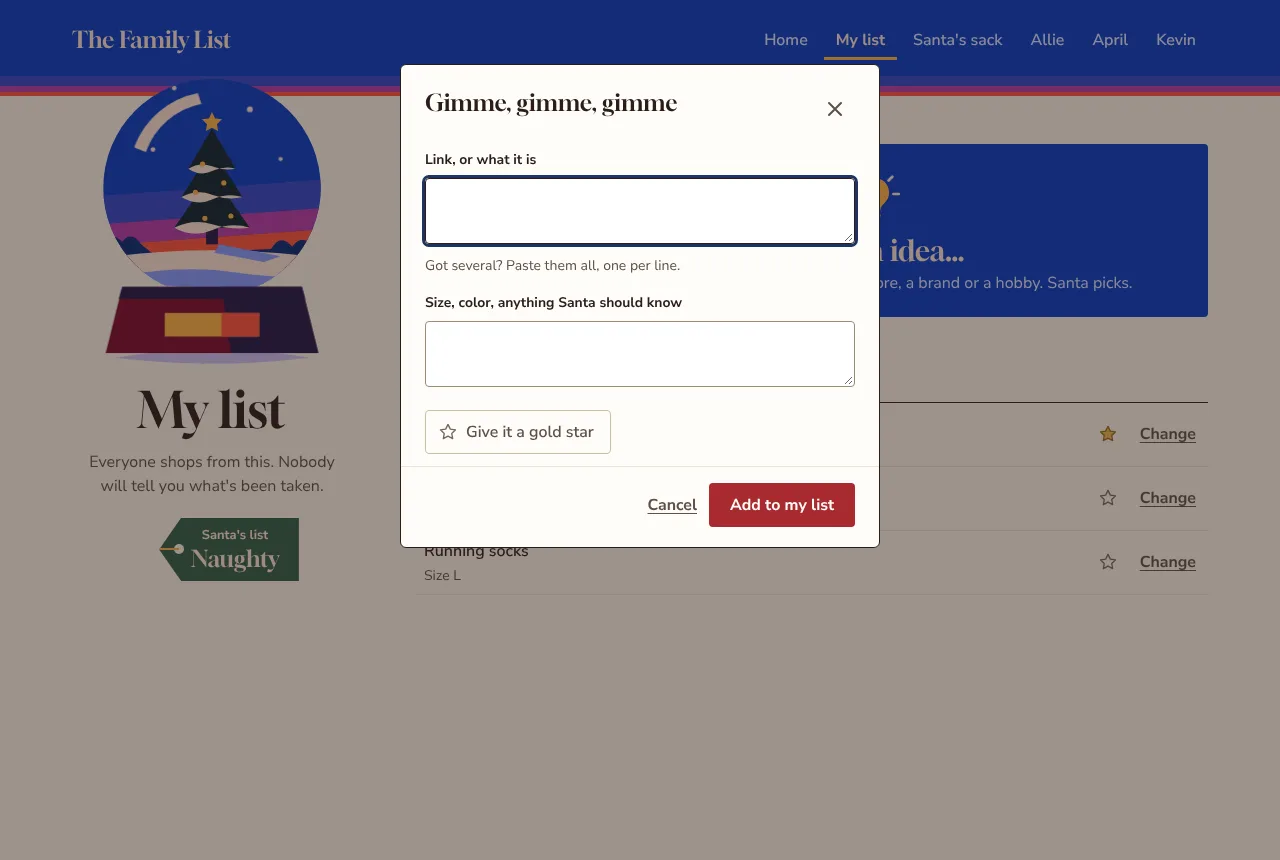
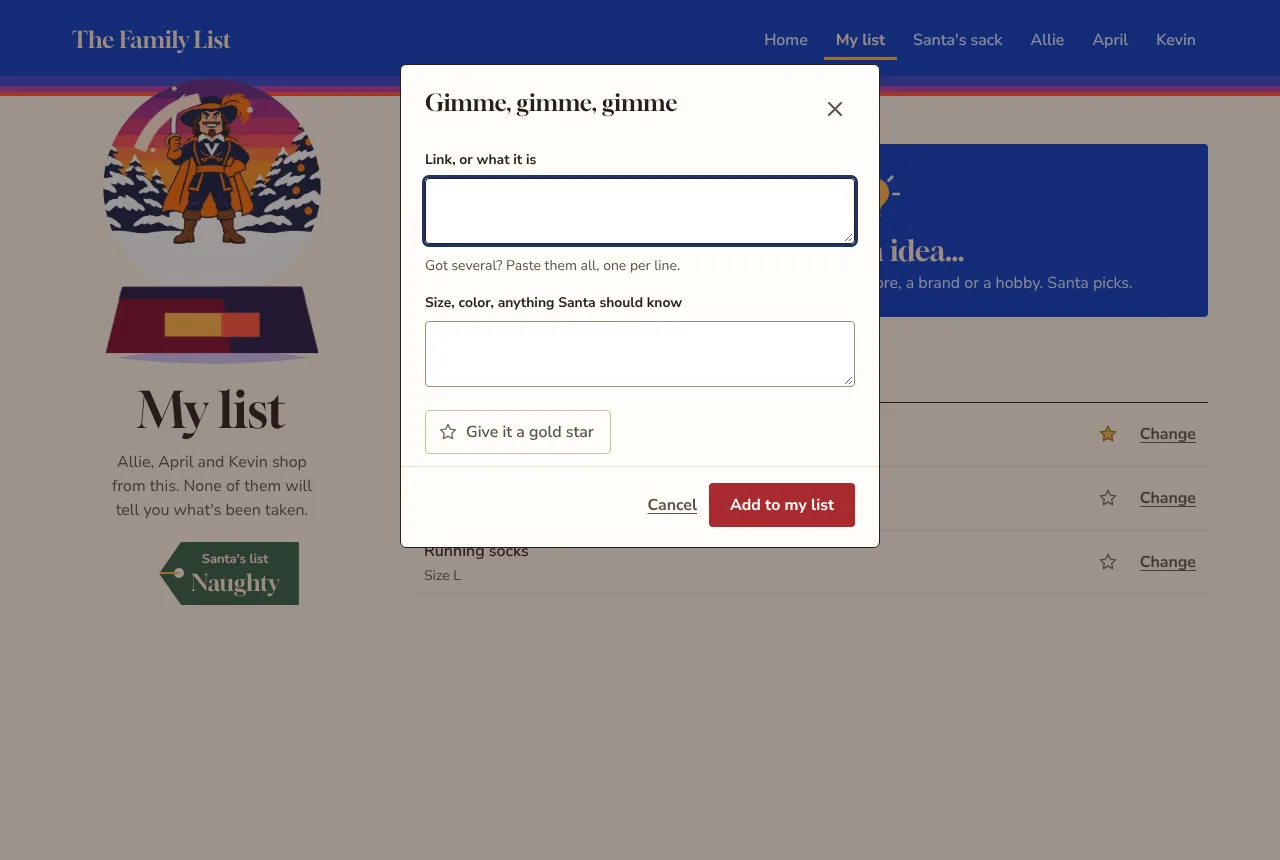
Name the family instead of saying "everyone"
Santa's sack and My list now say who's in the family by name (from the
database, so no names in the public code). "The others" and the sign-in
page's "everyone's lists" now say "the family". Logged as a wording rule
in DESIGN and DECISIONS. The review screenshot script signs in with the
family password now, and the screenshots are retaken.

Claude-Session: https://claude.ai/code/session_01XGi8FoTEC6fG9nvaAP17EW

Changed region(s): [[0.0625, 0.0907, 0.25, 0.3326], [0.0625, 0.514, 0.25, 0.7256]]

diff --git a/src/features/my-list/MyListPage.tsx b/src/features/my-list/MyListPage.tsx
@@ -1,7 +1,7 @@
 import { useEffect, useState } from 'react'
 import { features } from '../../config/features'
-import { useMyList, type WishItem, type WishKind } from '../../data'
-import { santasListLabels } from '../../shared/format'
+import { useMyList, useOtherPeople, type WishItem, type WishKind } from '../../data'
+import { joinNames, santasListLabels } from '../../shared/format'
 import { LightbulbIcon, PresentIcon } from '../../shared/icons'
 import { SnowGlobe } from '../../shared/SnowGlobe'
 import { EmptyRow, ListSection, Rows } from '../../shared/ui/List'
@@ -14,6 +14,8 @@ type OpenDialog = { kind: WishKind; item?: WishItem } | null
 
 export function MyListPage() {
   const { me, wishes } = useMyList()
+  const others = useOtherPeople()
+  const family = joinNames(others.map((p) => p.name))
   const [dialog, setDialog] = useState<OpenDialog>(null)
   const close = () => setDialog(null)
   // Just added: pointed out for a few seconds, since new things go to the bottom.
@@ -31,7 +33,7 @@ export function MyListPage() {
         <>
           <SnowGlobe size={260} scene={me.globeScene} />
           <h1 className={styles.title}>My list</h1>
-          <p className={styles.subtitle}>Everyone shops from this. Nobody will tell you what's been taken.</p>
+          <p className={styles.subtitle}>{family} {others.length === 1 ? 'shops' : 'shop'} from this. None of them will tell you what's been taken.</p>
           {features.santasList && me.santasList && (
             // A printed gift tag on a gold string
             <p className={styles.santaTag}>

diff --git a/src/features/sack/SackPage.tsx b/src/features/sack/SackPage.tsx
@@ -1,6 +1,6 @@
 import { useState } from 'react'
 import { useHomes, usePeople, useSack, useViewer, type Gift, type Person } from '../../data'
-import { storeFromLink } from '../../shared/format'
+import { joinNames, storeFromLink } from '../../shared/format'
 import { GiftDialog } from '../../shared/GiftDialog'
 import { links } from '../../shared/router'
 import { SnowGlobe } from '../../shared/SnowGlobe'
@@ -36,13 +36,13 @@ export function SackPage() {
             <SantasSack />
           </span>
           <h1 className={styles.title}>Santa's sack</h1>
-          <p className={styles.subtitle}>Everything you're getting, for everyone, and where it's headed.</p>
+          <p className={styles.subtitle}>Your gifts for {joinNames(groups.map((g) => g.person.name))}, and where they're shipping.</p>
         </>
       }
     >
       {landing.length > 0 && (
         <ListSection title="Landing at your place">
-          <p className={styles.sectionNote}>Boxes the others are shipping to you.</p>
+          <p className={styles.sectionNote}>Boxes the family is shipping to your house.</p>
           <Rows>
             {landing.map((gift) => (
               <Row

diff --git a/src/shared/format.ts b/src/shared/format.ts
@@ -46,6 +46,12 @@ export const isLink = (text: string) => /^https?:\/\/\S+$/i.test(text.trim())
 
 const MAX_NAME_WORDS = 6
 
+// Names as a person would say them: "Allie", "Allie and Kevin", "April, Allie and Kevin".
+export function joinNames(names: string[]): string {
+  if (names.length < 2) return names.join('')
+  return `${names.slice(0, -1).join(', ')} and ${names[names.length - 1]}`
+}
+
 export const capitalize = (text: string) => text.charAt(0).toUpperCase() + text.slice(1)
 
 // Most shops put the product name in the link: ".../rite-in-the-rain-notebook/123".

diff --git a/src/features/sign-in/SignInPage.tsx b/src/features/sign-in/SignInPage.tsx
@@ -78,7 +78,7 @@ function SignIn() {
 
   return (
     <Frame>
-      <h1 className={styles.title}>Sign in to see everyone's lists</h1>
+      <h1 className={styles.title}>Sign in to see the family's lists</h1>
       <form className={styles.form} onSubmit={signIn} noValidate>
         <TextField label="Your email" name="email" value={email} onChange={setEmail} email required />
         <TextField

diff --git a/docs/DESIGN.md b/docs/DESIGN.md
@@ -12,6 +12,7 @@ Round-one plaid "Christmas morning" pages were busy. The direction now:
 - **My list's two add buttons are flat blocks of ink** (red for "Gimme, gimme, gimme", cobalt for "An idea…"), no shadows. Side by side on laptops (1190px and wider), icon above the words, so "Gimme, gimme, gimme" stays on one line; stacked on narrower screens, where two can't fit it. Santa's list is a flat printed gift tag on a gold string.
 - **One festive moment per page.** Home: a screen print of the family house at dusk on Christmas Eve (flat inks, colored shadows), with the headline on its sky. Shopping pages: the person's snow globe, with gifts piling up at the bottom (one wrapped present per gift). Your own page: your globe just snows. Santa's sack: a flat-ink sack full of presents (the approved drawing, colors from the theme), with each person's small globe beside their heading.
 - **Quiet rows.** Status pill, name, who; notes and links in small type under the name, always in view (nothing opens). Every gift shows "Change" after the giver's name (anyone can fix any gift they can see); if two people claimed one wish, both names show, one per line. On phones the name gets the whole width and status and who go on the line under it. Two states for a wish: "Needs Santa" (grey, dashed circle) and "Santa's got it" (green, full circle), shape and word with the color. Gifts themselves have no status: if it's on the page, someone's getting it. Nothing else in a row gets color.
+- **Words name the family.** Say April, Allie and Kevin (from the database), or "the family", never "everyone", "anyone" or "the others".
 - **The fun is in small touches:** the gift pile, the wording ("Gimme, gimme, gimme"), the Naughty/Nice tag. No stamps, plaid strips, emoji or handwriting fonts.
 - **Quiet nods** to the family's favorite Christmas movies remain welcome, small enough that only the family notices.
 

diff --git a/docs/DECISIONS.md b/docs/DECISIONS.md
@@ -171,3 +171,4 @@ Newest at the bottom. Each entry: what we decided, and why.
 - **The family test plays Brady's parts with Kevin and April** (Kevin ships a surprise for Allie to April's and gets the shipping question; April is the second Santa), because a test can't do Google sign-in. Brady's own view is the emulator run. A `TARGET=emulator-family` mode tries the family run on the emulator first.
 - **Fixed in the test, not the site:** the real database sends a record's fields back in a different order each time, which the before/after comparison first counted as a change. Records are now compared with their fields sorted.
 
+**2026-11-10: The site names the family, never "everyone".** Brady: "everyone" and "the others" sound impersonal; it's a family list. Where the page knows who's signed in, it says their names, taken from the database ("Your gifts for April, Allie and Kevin, and where they're shipping."; "April, Allie and Kevin shop from this. None of them will tell you what's been taken."). Where it can't, it says "the family" (the sign-in page, before anyone is known; "Boxes the family is shipping to your house."). Names are never written into the code, which is public. "Download everything as a spreadsheet" stays: "everything" is about the gifts, not the people.
